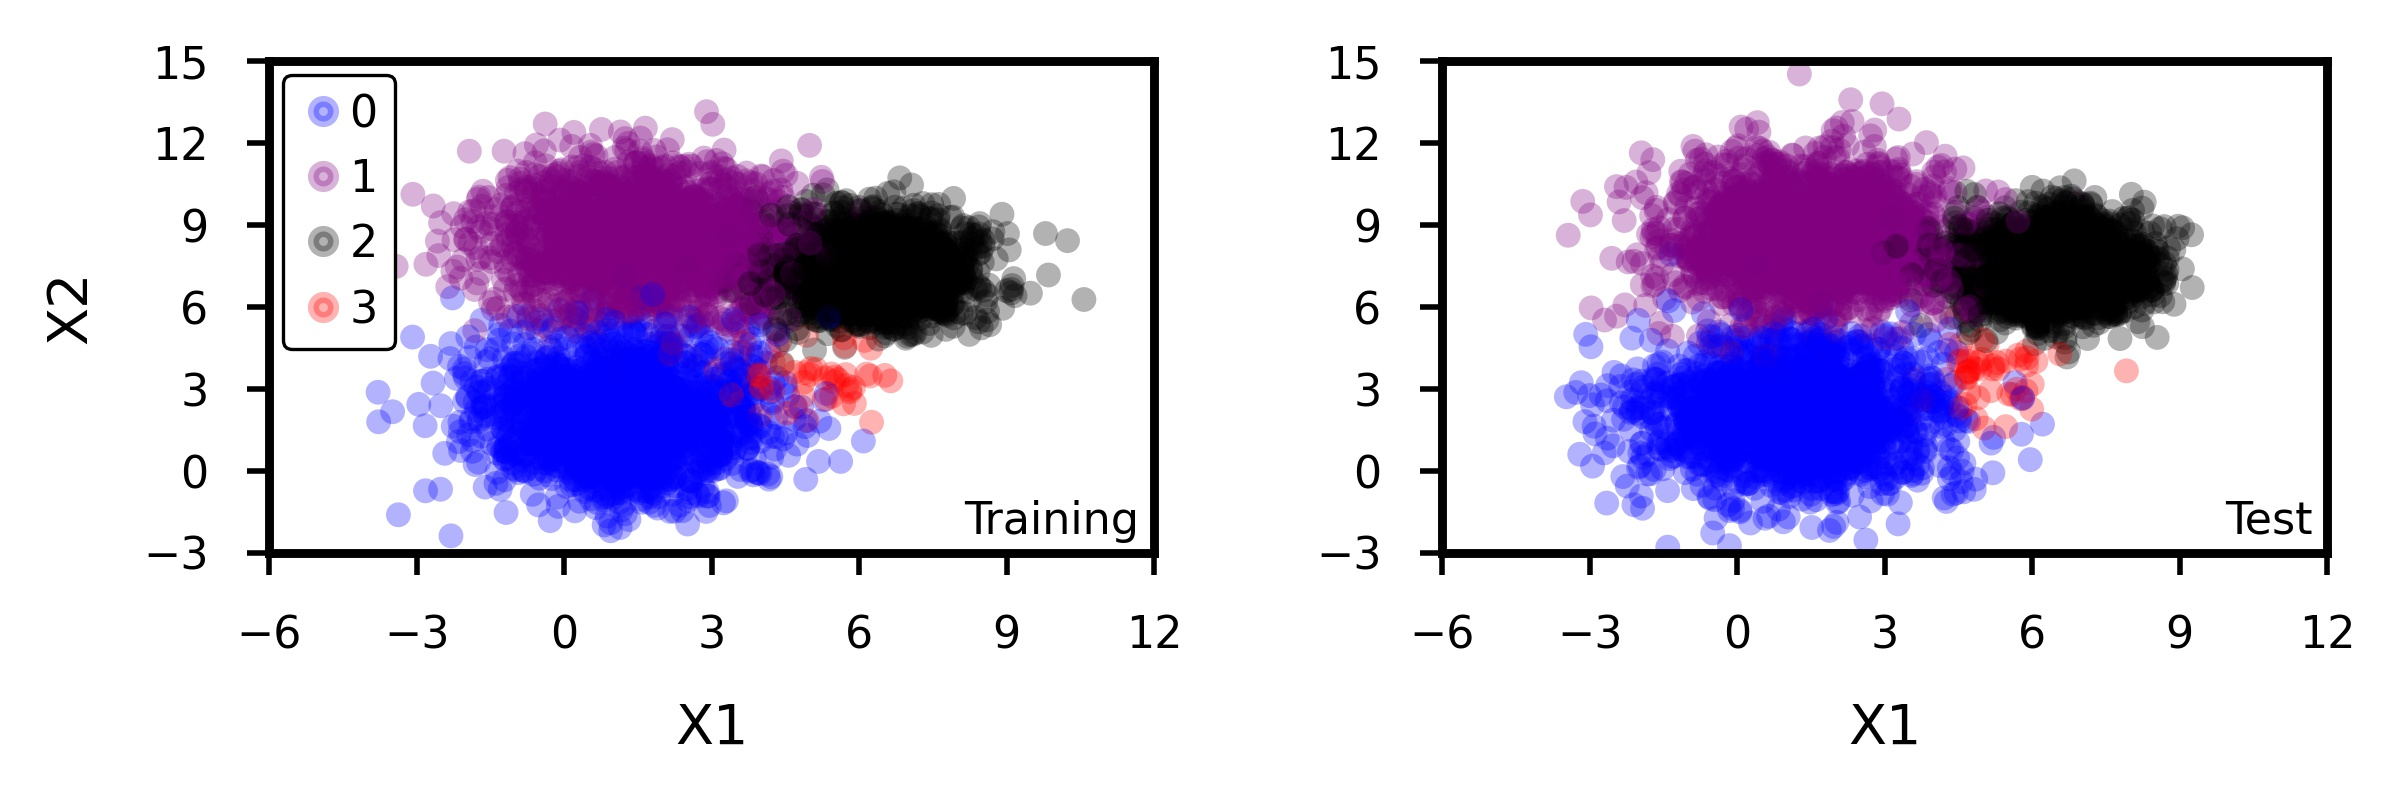
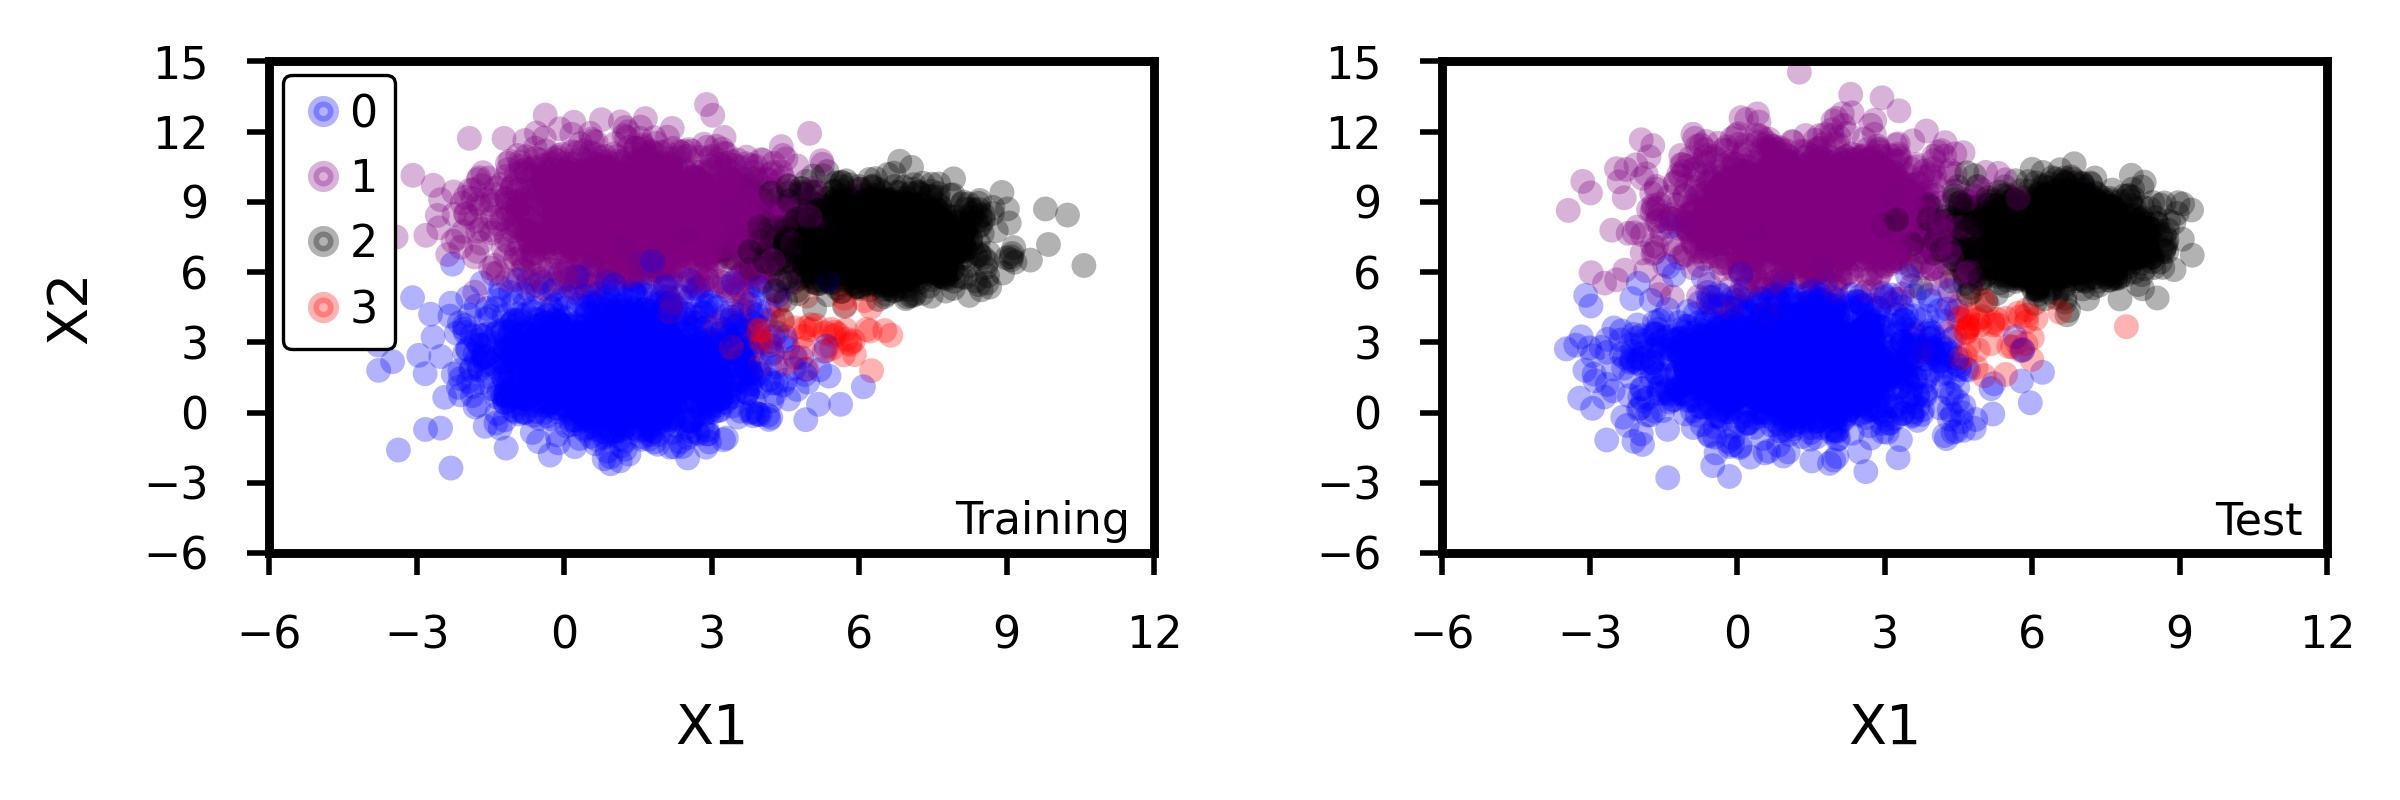
Miscellaneous fixes 17
Made improvements to locations of figure text for the multi-class plots.

diff --git a/ImbalancedLearning.py b/ImbalancedLearning.py
@@ -72,9 +72,9 @@ def plot_scatter(d_x, d_y, fontsize = 10, legend = True, x1lab = True, x2lab = T
         pyplot.yticks([-6, -3, 0, 3, 6], fontsize = 4)
     else:
         pyplot.xlim([-6, 12])
-        pyplot.ylim([-3, 15])
+        pyplot.ylim([-6, 15])
         pyplot.xticks([-6, -3, 0, 3, 6, 9, 12], fontsize = 4)
-        pyplot.yticks([-3, 0, 3, 6, 9, 12, 15], fontsize = 4)
+        pyplot.yticks([-6, -3, 0, 3, 6, 9, 12, 15], fontsize = 4)
     pyplot.tick_params(length = 2, width = 0.5)
     if legend == True:
         lg = pyplot.legend(*scatter.legend_elements(), fontsize = fontsize, loc = loc, edgecolor = "black",
@@ -100,8 +100,8 @@ pyplot.savefig("Plot_Pts.jpeg", dpi = 800, facecolor = "white")
 
 # Define functions for plotting contours and decision boundary
 def plot_meshpoints(x, y, h = 0.02):
-    x_min, x_max = x.min() - 2, x.max() + 2
-    y_min, y_max = y.min() - 2, y.max() + 2
+    x_min, x_max = x.min() - 4, x.max() + 4
+    y_min, y_max = y.min() - 4, y.max() + 4
     xx, yy = numpy.meshgrid(numpy.arange(x_min, x_max, h), numpy.arange(y_min, y_max, h))
     return xx, yy
 def plot_contours(ax, clf, xx, yy, **params):
@@ -489,13 +489,14 @@ cmap = colors.ListedColormap(["blue", "purple", "black", "red"])
 bounds = [0, 0.5, 1.5, 2.5, 3]
 norm = colors.BoundaryNorm(bounds, cmap.N)
 
+# Plot training and test data separately
 fig = pyplot.figure(figsize = (3, 1), dpi = 800)
 ax = pyplot.subplot(1, 2, 1)
 plot_scatter(d_x = train_x, d_y = train_y, fontsize = 4, binClass = False)
-ax.text(11.7, -2.3, "Training", fontsize = 4, horizontalalignment = "right")
+ax.text(11.5, -5.2, "Training", fontsize = 4, horizontalalignment = "right")
 ax = pyplot.subplot(1, 2, 2)
 plot_scatter(d_x = test_x, d_y = test_y, binClass = False, x2lab = False, legend = False)
-ax.text(11.7, -2.3, "Test", fontsize = 4, horizontalalignment = "right")
+ax.text(11.5, -5.2, "Test", fontsize = 4, horizontalalignment = "right")
 pyplot.tight_layout(pad = 0.4, w_pad = 1.2, h_pad = 1.0)
 pyplot.savefig("Plot_Pts2.jpeg", dpi = 800, facecolor = "white")
 
@@ -526,50 +527,50 @@ ax = pyplot.subplot(4, 2, 1)
 xx, yy = plot_meshpoints(train_x[:, 0], train_x[:, 1])
 plot_contours(ax, clfRC1, xx, yy, cmap = cmap, norm = norm, alpha = 0.4)
 plot_scatter(d_x = train_x, d_y = train_y, binClass = False, x1lab = False, fontsize = 4)
-ax.text(-5.7, -2.5, "Weight 1:1:1:1", fontsize = 4, horizontalalignment = "left")
-ax.text(11.7, -2.5, "Radial (c = 1)", fontsize = 4, horizontalalignment = "right")
+ax.text(-5.7, -5.1, "Weight 1:1:1:1", fontsize = 4, horizontalalignment = "left")
+ax.text(11.7, -5.1, "Radial (c = 1)", fontsize = 4, horizontalalignment = "right")
 ax = pyplot.subplot(4, 2, 2)
 xx, yy = plot_meshpoints(train_x[:, 0], train_x[:, 1])
 plot_contours(ax, clfRC1C, xx, yy, cmap = cmap, norm = norm, alpha = 0.4)
 plot_scatter(d_x = train_x, d_y = train_y, binClass = False, x1lab = False, x2lab = False, legend = False)
-ax.text(-5.7, -2.5, "Weight 1:1:1:97", fontsize = 4, horizontalalignment = "left")
-ax.text(11.7, -2.5, "Radial (c = 1)", fontsize = 4, horizontalalignment = "right")
+ax.text(-5.7, -5.1, "Weight 1:1:1:97", fontsize = 4, horizontalalignment = "left")
+ax.text(11.7, -5.1, "Radial (c = 1)", fontsize = 4, horizontalalignment = "right")
 ax = pyplot.subplot(4, 2, 3)
 xx, yy = plot_meshpoints(train_x[:, 0], train_x[:, 1])
 plot_contours(ax, clfRC2, xx, yy, cmap = cmap, norm = norm, alpha = 0.4)
 plot_scatter(d_x = train_x, d_y = train_y, binClass = False, x1lab = False, legend = False)
-ax.text(-5.7, -2.5, "Weight 1:1:1:1", fontsize = 4, horizontalalignment = "left")
-ax.text(11.7, -2.5, "Radial (c = 2)", fontsize = 4, horizontalalignment = "right")
+ax.text(-5.7, -5.1, "Weight 1:1:1:1", fontsize = 4, horizontalalignment = "left")
+ax.text(11.7, -5.1, "Radial (c = 2)", fontsize = 4, horizontalalignment = "right")
 ax = pyplot.subplot(4, 2, 4)
 xx, yy = plot_meshpoints(train_x[:, 0], train_x[:, 1])
 plot_contours(ax, clfRC2C, xx, yy, cmap = cmap, norm = norm, alpha = 0.4)
 plot_scatter(d_x = train_x, d_y = train_y, binClass = False, x1lab = False, x2lab = False, legend = False)
-ax.text(-5.7, -2.5, "Weight 1:1:1:97", fontsize = 4, horizontalalignment = "left")
-ax.text(11.7, -2.5, "Radial (c = 2)", fontsize = 4, horizontalalignment = "right")
+ax.text(-5.7, -5.1, "Weight 1:1:1:97", fontsize = 4, horizontalalignment = "left")
+ax.text(11.7, -5.1, "Radial (c = 2)", fontsize = 4, horizontalalignment = "right")
 ax = pyplot.subplot(4, 2, 5)
 xx, yy = plot_meshpoints(train_x[:, 0], train_x[:, 1])
 plot_contours(ax, clfRC3, xx, yy, cmap = cmap, norm = norm, alpha = 0.4)
 plot_scatter(d_x = train_x, d_y = train_y, binClass = False, x1lab = False, legend = False)
-ax.text(-5.7, -2.5, "Weight 1:1:1:1", fontsize = 4, horizontalalignment = "left")
-ax.text(11.7, -2.5, "Radial (c = 5)", fontsize = 4, horizontalalignment = "right")
+ax.text(-5.7, -5.1, "Weight 1:1:1:1", fontsize = 4, horizontalalignment = "left")
+ax.text(11.7, -5.1, "Radial (c = 5)", fontsize = 4, horizontalalignment = "right")
 ax = pyplot.subplot(4, 2, 6)
 xx, yy = plot_meshpoints(train_x[:, 0], train_x[:, 1])
 plot_contours(ax, clfRC3C, xx, yy, cmap = cmap, norm = norm, alpha = 0.4)
 plot_scatter(d_x = train_x, d_y = train_y, binClass = False, x1lab = False, x2lab = False, legend = False)
-ax.text(-5.7, -2.5, "Weight 1:1:1:97", fontsize = 4, horizontalalignment = "left")
-ax.text(11.7, -2.5, "Radial (c = 5)", fontsize = 4, horizontalalignment = "right")
+ax.text(-5.7, -5.1, "Weight 1:1:1:97", fontsize = 4, horizontalalignment = "left")
+ax.text(11.7, -5.1, "Radial (c = 5)", fontsize = 4, horizontalalignment = "right")
 ax = pyplot.subplot(4, 2, 7)
 xx, yy = plot_meshpoints(train_x[:, 0], train_x[:, 1])
 plot_contours(ax, clfRC4, xx, yy, cmap = cmap, norm = norm, alpha = 0.4)
 plot_scatter(d_x = train_x, d_y = train_y, binClass = False, legend = False)
-ax.text(-5.7, -2.5, "Weight 1:1:1:1", fontsize = 4, horizontalalignment = "left")
-ax.text(11.7, -2.5, "Radial (c = 10)", fontsize = 4, horizontalalignment = "right")
+ax.text(-5.7, -5.1, "Weight 1:1:1:1", fontsize = 4, horizontalalignment = "left")
+ax.text(11.7, -5.1, "Radial (c = 10)", fontsize = 4, horizontalalignment = "right")
 ax = pyplot.subplot(4, 2, 8)
 xx, yy = plot_meshpoints(train_x[:, 0], train_x[:, 1])
 plot_contours(ax, clfRC4C, xx, yy, cmap = cmap, norm = norm, alpha = 0.4)
 plot_scatter(d_x = train_x, d_y = train_y, binClass = False, x2lab = False, legend = False)
-ax.text(-5.7, -2.5, "Weight 1:1:1:97", fontsize = 4, horizontalalignment = "left")
-ax.text(11.7, -2.5, "Radial (c = 10)", fontsize = 4, horizontalalignment = "right")
+ax.text(-5.7, -5.1, "Weight 1:1:1:97", fontsize = 4, horizontalalignment = "left")
+ax.text(11.7, -5.1, "Radial (c = 10)", fontsize = 4, horizontalalignment = "right")
 pyplot.tight_layout(pad = 0.4, w_pad = 1.2, h_pad = 1.0)
 pyplot.savefig("Plot_SVM2.jpeg", dpi = 800, facecolor = "white")
 
